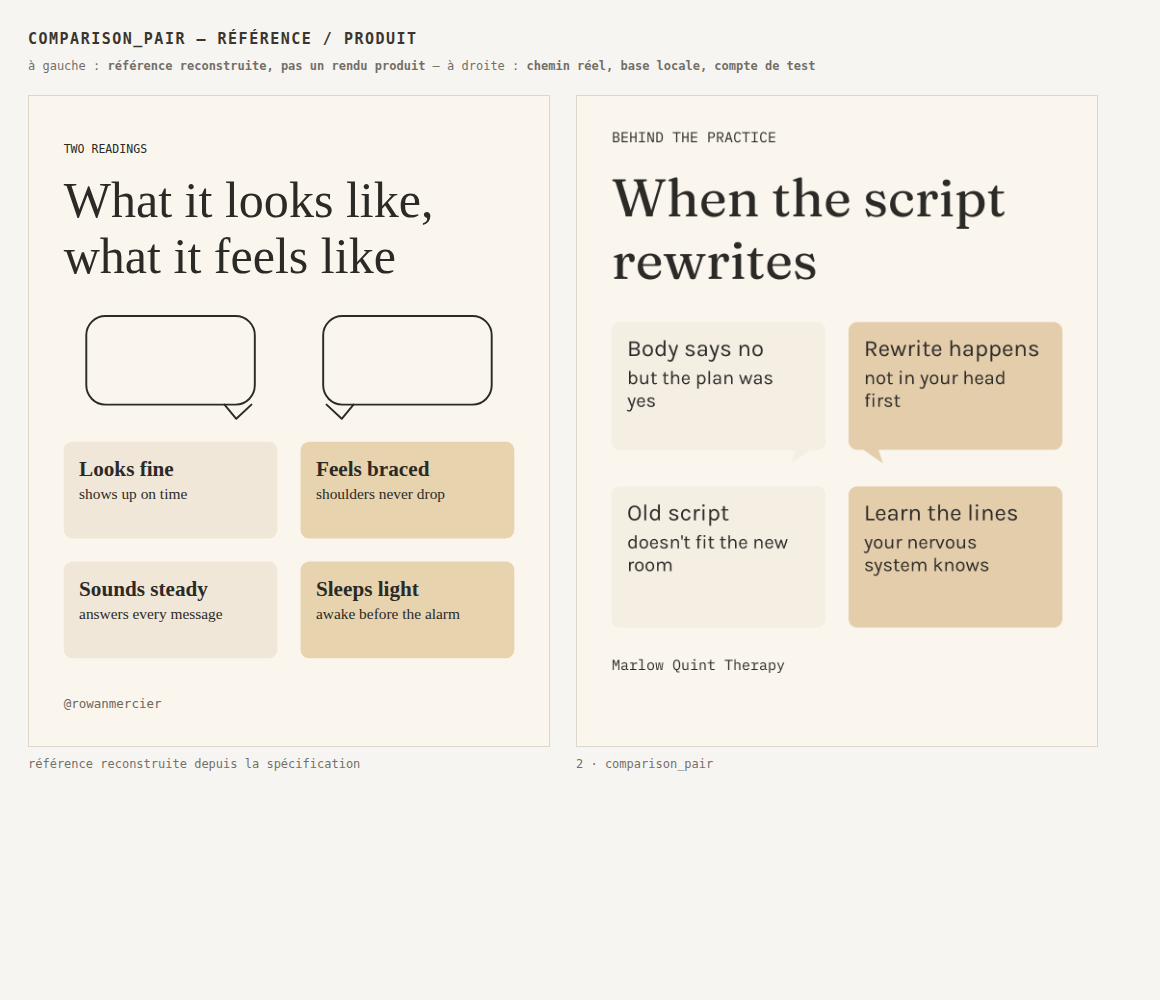
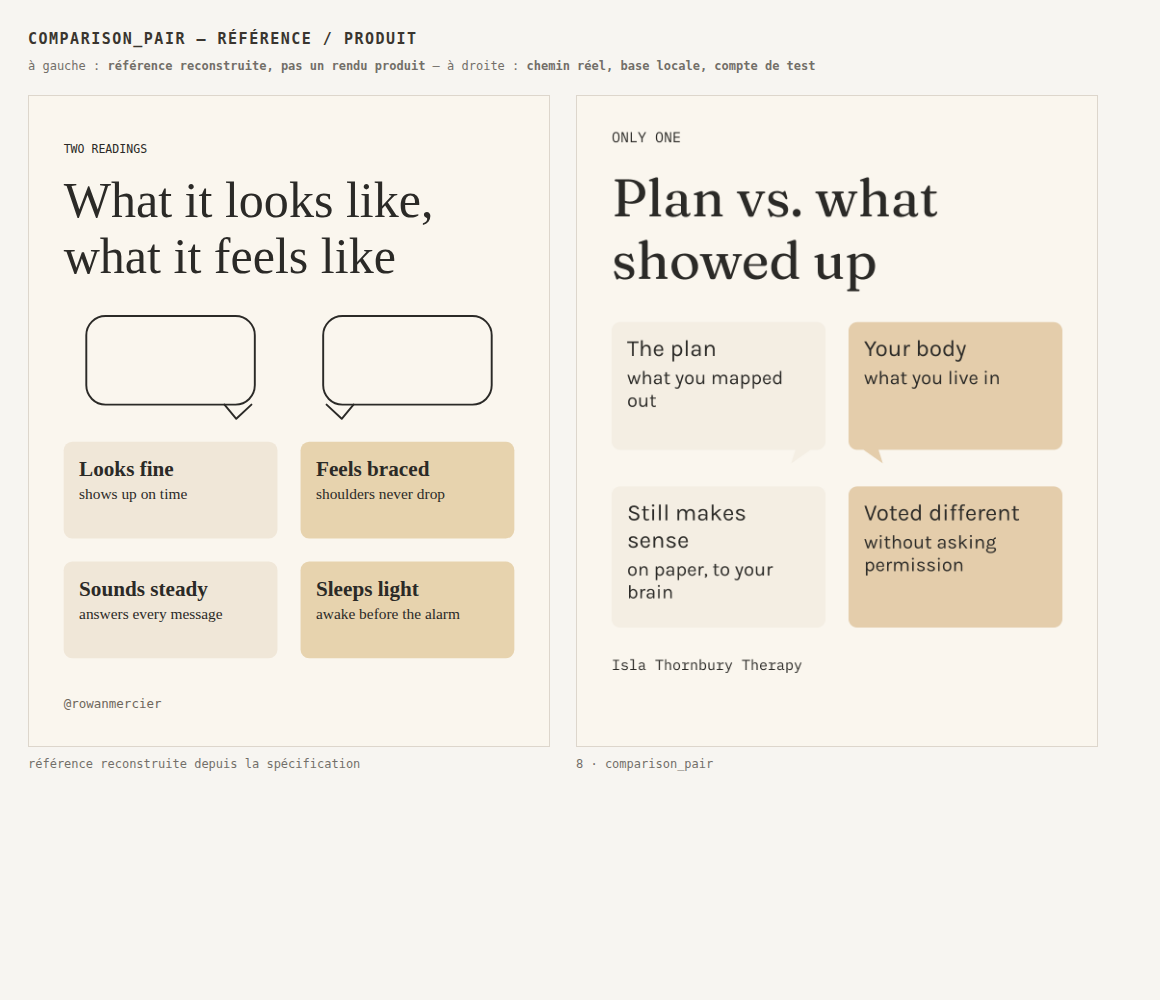
feat(render): le mois du 2026-10 sur isla.thornbury, 30 visuels de 30
33 candidats, 30 générés, 25 conformes au premier appel, 5 réparés, 0 refusé
après réparation, 30 écrits, 30 visuels, 1 repli. 136 secondes en synchrone —
c'est le premier mois de l'abonné, donc la promesse s'applique. 0,086 $.

Dix archétypes sur onze, part de phrases seules 30 % (plafond 40 %), aucun
titre en double, aucun titre tronqué.

F15 — ⚠ AUCUNE MESURE DE CE PIPELINE NE REGARDE UNE IMAGE.

Il a fallu six mois réels pour en obtenir un bon, et **quatre des six
affichaient un entonnoir parfait** : 30 écrits, 30 visuels, zéro pénurie,
zéro repli. Trois de ces quatre étaient mauvais — teintes de marque
saturées sur dix-neuf cartes ; cinq archétypes sur onze ; deux cartes au
même titre. Chacun trouvé en regardant la planche, aucun visible dans
`funnel.json`, aucun ne faisant échouer une suite.

Le pire des trois se lisait même dans les mesures comme une AMÉLIORATION :
le mélange d'archétypes s'est effondré au moment où la pénurie de banque a
disparu, parce que la variété des mois précédents était un effet de bord de
cette pénurie. Toute mesure de qualité qui s'améliore quand une ressource
se raréfie est à relire.

F13 gagne son multiplicateur : le dédoublonnage refuse ~40 % des sujets
tirés, parce que la banque produit des titres qui se recouvrent — tous
écrits depuis les mêmes trois thèmes de segment. Le stock nécessaire est
donc de l'ordre de `N × 90 × 3`.

Claude-Session: https://claude.ai/code/session_01HNED8td47KZzxtZRK5Fx7o

diff --git a/FOLLOWUP.md b/FOLLOWUP.md
@@ -420,6 +420,38 @@ précisément pour que la ligne dise ce qu'elle vaut.
 
 ---
 
+## F15 — ⚠ AUCUNE MESURE DE CE PIPELINE NE REGARDE UNE IMAGE
+
+**Six mois réels ont été générés le 2026-09-21 pour en obtenir un bon. Quatre
+des six affichaient un entonnoir PARFAIT** — 30 écrits, 30 visuels, zéro
+pénurie, zéro repli — et trois d'entre eux étaient mauvais :
+
+* `wren.ashcombe` : teintes de marque à pleine saturation sur dix-neuf cartes,
+  un titre arrêté sur « you get », un nom d'axe posé hors de sa bande ;
+* `perrin.vale` : **5 archétypes sur 11**, six icebergs identiques, onze
+  phrases seules ;
+* `marlow.quint` : deux cartes portant le même titre.
+
+Chacun de ces défauts a été trouvé en REGARDANT la planche. Aucun n'est
+visible dans `funnel.json`, aucun ne fait échouer une suite, et le pire des
+trois — l'effondrement du mélange d'archétypes — se lisait dans les mesures
+comme une AMÉLIORATION, puisque la pénurie avait disparu.
+
+**Ce qu'il faut décider :**
+
+1. un contrôle automatique du MÉLANGE : aucun archétype au-delà de N % d'un
+   mois, et au moins K archétypes distincts sur 30 posts. C'est le seul de ces
+   défauts qui se calcule sans regarder une image ;
+2. qui regarde les planches, et quand. Le contrôle indépendant décrit dans
+   `design/preview-2026-09-21c/README.md` a trouvé en une passe ce que quatre
+   entonnoirs verts avaient laissé passer — mais il n'est lancé à la main que
+   parce qu'un cahier des charges le demandait ce jour-là ;
+3. ⚠ **la variété d'un mois a longtemps été un effet de bord de la pénurie.**
+   Tant que la banque était maigre, le tirage tombait sur d'autres archétypes
+   faute de stock. Remplir la banque a révélé le défaut au lieu de le corriger.
+   Toute mesure de qualité qui s'améliore quand une ressource se raréfie est à
+   relire.
+
 ## F13 — ⚠ LA BANQUE DE SUJETS SE TARIT POUR LA SIXIÈME PRATICIENNE D'UN SEGMENT
 
 **Mesuré le 2026-09-21, pas déduit.** Au moment de générer un mois pour le
@@ -437,7 +469,11 @@ nombre d'abonnées d'un segment, et qu'il n'est dimensionné nulle part.
 
 1. combien de sujets par segment pour `N` abonnées à 30 posts/mois sur une
    fenêtre de 90 jours — l'ordre de grandeur est `N × 90` et personne ne l'a
-   posé par écrit ;
+   posé par écrit. ⚠ **Et il faut le multiplier par trois** : mesuré sur la
+   banque réelle, le dédoublonnage refuse environ 40 % des sujets tirés, parce
+   que la banque elle-même produit des titres qui se recouvrent — tous écrits
+   depuis les mêmes trois thèmes de segment. Un sujet refusé sort de la banque
+   pour 90 jours comme les autres ;
 2. qui remplit la banque, et quand. Aucun travail de fond ne la remplit
    aujourd'hui : `10-topic-bank.ts` est un script de harnais, pas un `cron` ;
 3. ce que le produit RÉPOND quand la banque est vide. Aujourd'hui le tirage

diff --git a/design/preview-2026-09-21c/README.md b/design/preview-2026-09-21c/README.md
@@ -4,8 +4,28 @@
 
 Tout ce qui porte cette mention est sorti de `GET /api/content-items/[id]/image`
 — la route que le bouton de téléchargement appelle — sur un mois généré de bout
-en bout pour un **sixième compte de test**, `thea.brannon@eklio-test.invalid`,
-créé pour cette preuve et jamais retouché à la main.
+en bout pour `isla.thornbury@eklio-test.invalid`, créé pour cette preuve et
+jamais retouché à la main.
+
+## ⚠ Il a fallu six mois réels, et cinq comptes de plus, pour arriver ici
+
+Chacun a été gardé, parce que ce que chacun a montré n'est lisible nulle part
+ailleurs :
+
+| compte | résultat | ce que ce mois-là a révélé |
+|---|---|---|
+| `thea.brannon` | 10/30 | le dédoublonnage refusait 106 sujets sur 116 : il mesurait la taille du lot, pas la redondance |
+| `wren.ashcombe` | 30/30 | l'entonnoir était vert ; la planche montrait des teintes de marque saturées, un titre tronqué, un nom d'axe sorti de sa bande |
+| `juno.calvert` | 23/30 | « nervous system » comptait pour deux mots distinctifs : 51 refus sur 76, banque à sec |
+| `perrin.vale` | 30/30 | **5 archétypes sur 11.** Le tirage vidait le premier archétype de chaque famille ; la variété des mois précédents était un artefact de la pénurie |
+| `marlow.quint` | 30/30 | deux cartes titrées pareil — deux titres distincts en banque se réduisent au même texte une fois coupés à trente caractères |
+| `isla.thornbury` | 30/30 | le mois de ce dossier |
+
+**Quatre de ces six mois affichaient un entonnoir parfait.** 30 écrits, 30
+visuels, zéro pénurie, zéro repli — pendant que la planche montrait six
+icebergs identiques, ou deux fois le même titre. C'est la raison d'être du
+contrôle indépendant décrit plus bas : aucune des mesures que ce pipeline
+produit ne regarde une image.
 
 Rien de ce dossier n'a touché la production : pas de `main`, aucune variable
 Vercel, aucune connexion à la base de production. La clef Anthropic est passée
